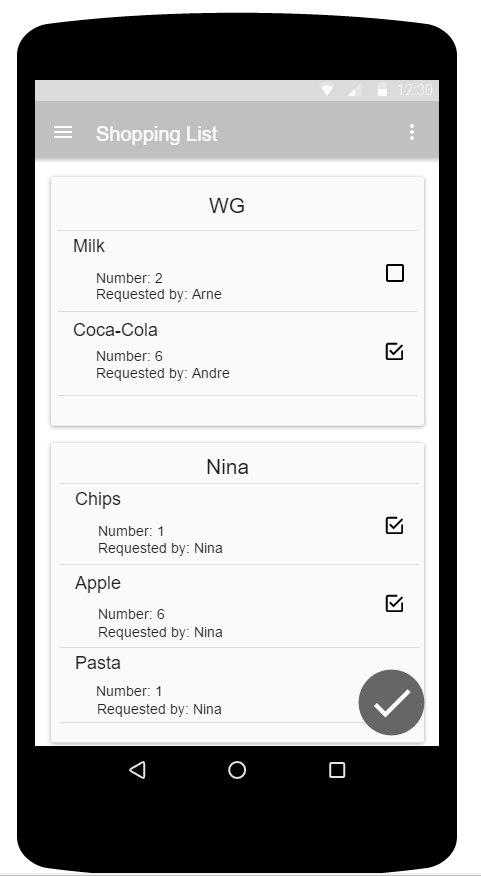
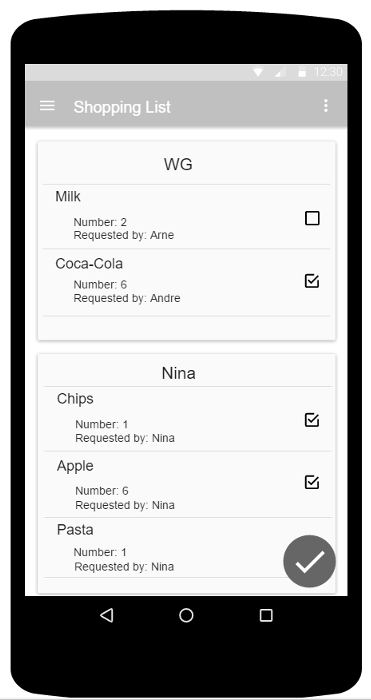
[UC] Update shopping list use case
* add description, etc
* resize a mockup image

diff --git a/Documentation/UC/UC_Shopping_List.md b/Documentation/UC/UC_Shopping_List.md
@@ -3,7 +3,7 @@
 # 1. Change Settings
 
 ## 1.1 Brief Description
-*TODO*
+This use case allows users to add products/items to a shopping list and manage them. A product has a title and may contain information the number of items and who the product shall be bought for. Bought items shall be removed from the list.
 
 ## 1.2 Mockup
 ![Mockup CheckedList](../Mockups/uc_shopping_list_CheckedList.PNG)
@@ -16,25 +16,24 @@
 ![Activity Diagram](../ActivityDiagrams/uc_shopping_list_activity_diagramm.png)
 
 ## 2.2 Alternative Flows
-
-### 2.2.1 *TODO*
-*TODO*
+n/a
 
 # 3. Special Requirements
 
-## 3.1 *TODO*
+## 3.1 Material Design
+Since "WGPlaner" is an Android application, the Material Design Style Guide should be used. Our style guide is available [here](https://github.com/WGPlaner/wg_planer/blob/master/CONTRIBUTING.md#styling-guidelines).
 
 # 4. Preconditions
+The main preconditions for this use case are:
 
-## 4.1 *TODO*
-*TODO*
+ 1. The users app instance is registered.
+ 2. The user is member of a group/shared flat.
+ 2. The user has started the app and has navigated to "Shopping List".
 
 # 5. Postconditions
 
-### 5.1 *TODO*
-*TODO*
+### 5.1 Save changes / Sync with server
+If a product has been added, edited or removed, it must be synced with the server.
 
 # 6. Extension Points
-
-## 6.1 *TODO*
-*TODO*
+n/a
